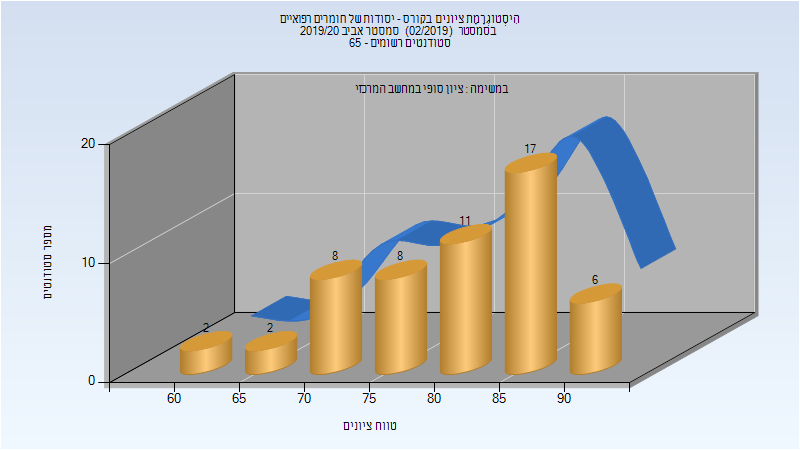
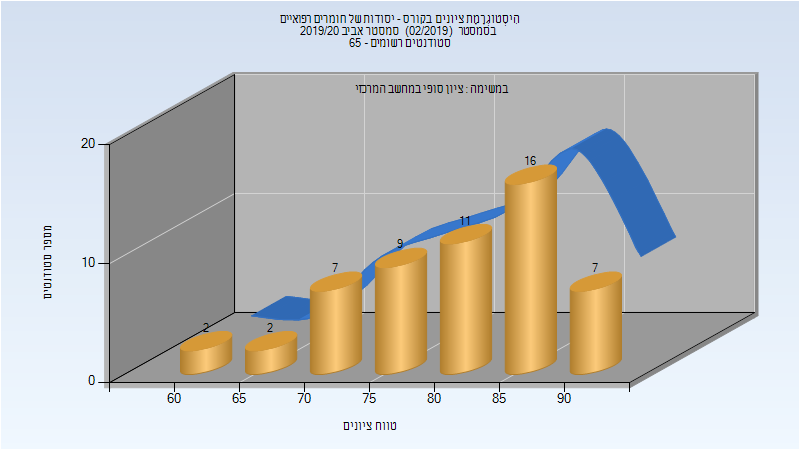
Deploy michael-maltsev/technion-histograms to github.com/michael-maltsev/technion-histograms.git:gh-pages

diff --git a/044202/index.html b/044202/index.html
@@ -1448,7 +1448,7 @@
 <td>60</td>
 <td>11</td>
 <td>93.5</td>
-<td>58.036</td>
+<td>58.119</td>
 <td>59</td>
 </tr>
 </tbody>
@@ -1474,7 +1474,33 @@
 <td>76</td>
 <td>14</td>
 <td>99</td>
-<td>66.43</td>
+<td>66.512</td>
+<td>67</td>
+</tr>
+</tbody>
+</table>
+<h3>סופי</h3>
+<p><img src="201902/Finals.png" alt="201902 Finals" /></p>
+<table>
+<thead>
+<tr>
+<th>סטודנטים</th>
+<th>עברו/נכשלו</th>
+<th>אחוז עוברים</th>
+<th>ציון מינימלי</th>
+<th>ציון מקסימלי</th>
+<th>ממוצע</th>
+<th>חציון</th>
+</tr>
+</thead>
+<tbody>
+<tr>
+<td>121</td>
+<td>92/29</td>
+<td>76</td>
+<td>14</td>
+<td>99</td>
+<td>66.512</td>
 <td>67</td>
 </tr>
 </tbody>

diff --git a/334221/index.html b/334221/index.html
@@ -461,8 +461,8 @@
 <td>100</td>
 <td>62</td>
 <td>94</td>
-<td>81.37</td>
-<td>82.5</td>
+<td>81.463</td>
+<td>83</td>
 </tr>
 </tbody>
 </table>

diff --git a/044202/README.md b/044202/README.md
@@ -449,7 +449,7 @@
 
 | סטודנטים | עברו/נכשלו | אחוז עוברים | ציון מינימלי | ציון מקסימלי | ממוצע | חציון |
 | ---- | ---- | ---- | ---- | ---- | ---- | ---- |
-| 121 | 73/48 | 60 | 11 | 93.5 | 58.036 | 59 |
+| 121 | 73/48 | 60 | 11 | 93.5 | 58.119 | 59 |
 
 ### סופי מועד א'
 
@@ -457,5 +457,13 @@
 
 | סטודנטים | עברו/נכשלו | אחוז עוברים | ציון מינימלי | ציון מקסימלי | ממוצע | חציון |
 | ---- | ---- | ---- | ---- | ---- | ---- | ---- |
-| 121 | 92/29 | 76 | 14 | 99 | 66.43 | 67 |
+| 121 | 92/29 | 76 | 14 | 99 | 66.512 | 67 |
+
+### סופי
+
+![201902 Finals](201902/Finals.png)
+
+| סטודנטים | עברו/נכשלו | אחוז עוברים | ציון מינימלי | ציון מקסימלי | ממוצע | חציון |
+| ---- | ---- | ---- | ---- | ---- | ---- | ---- |
+| 121 | 92/29 | 76 | 14 | 99 | 66.512 | 67 |
 

diff --git a/334221/README.md b/334221/README.md
@@ -141,5 +141,5 @@
 
 | סטודנטים | עברו/נכשלו | אחוז עוברים | ציון מינימלי | ציון מקסימלי | ממוצע | חציון |
 | ---- | ---- | ---- | ---- | ---- | ---- | ---- |
-| 54 | 54/0 | 100 | 62 | 94 | 81.37 | 82.5 |
+| 54 | 54/0 | 100 | 62 | 94 | 81.463 | 83 |
 
